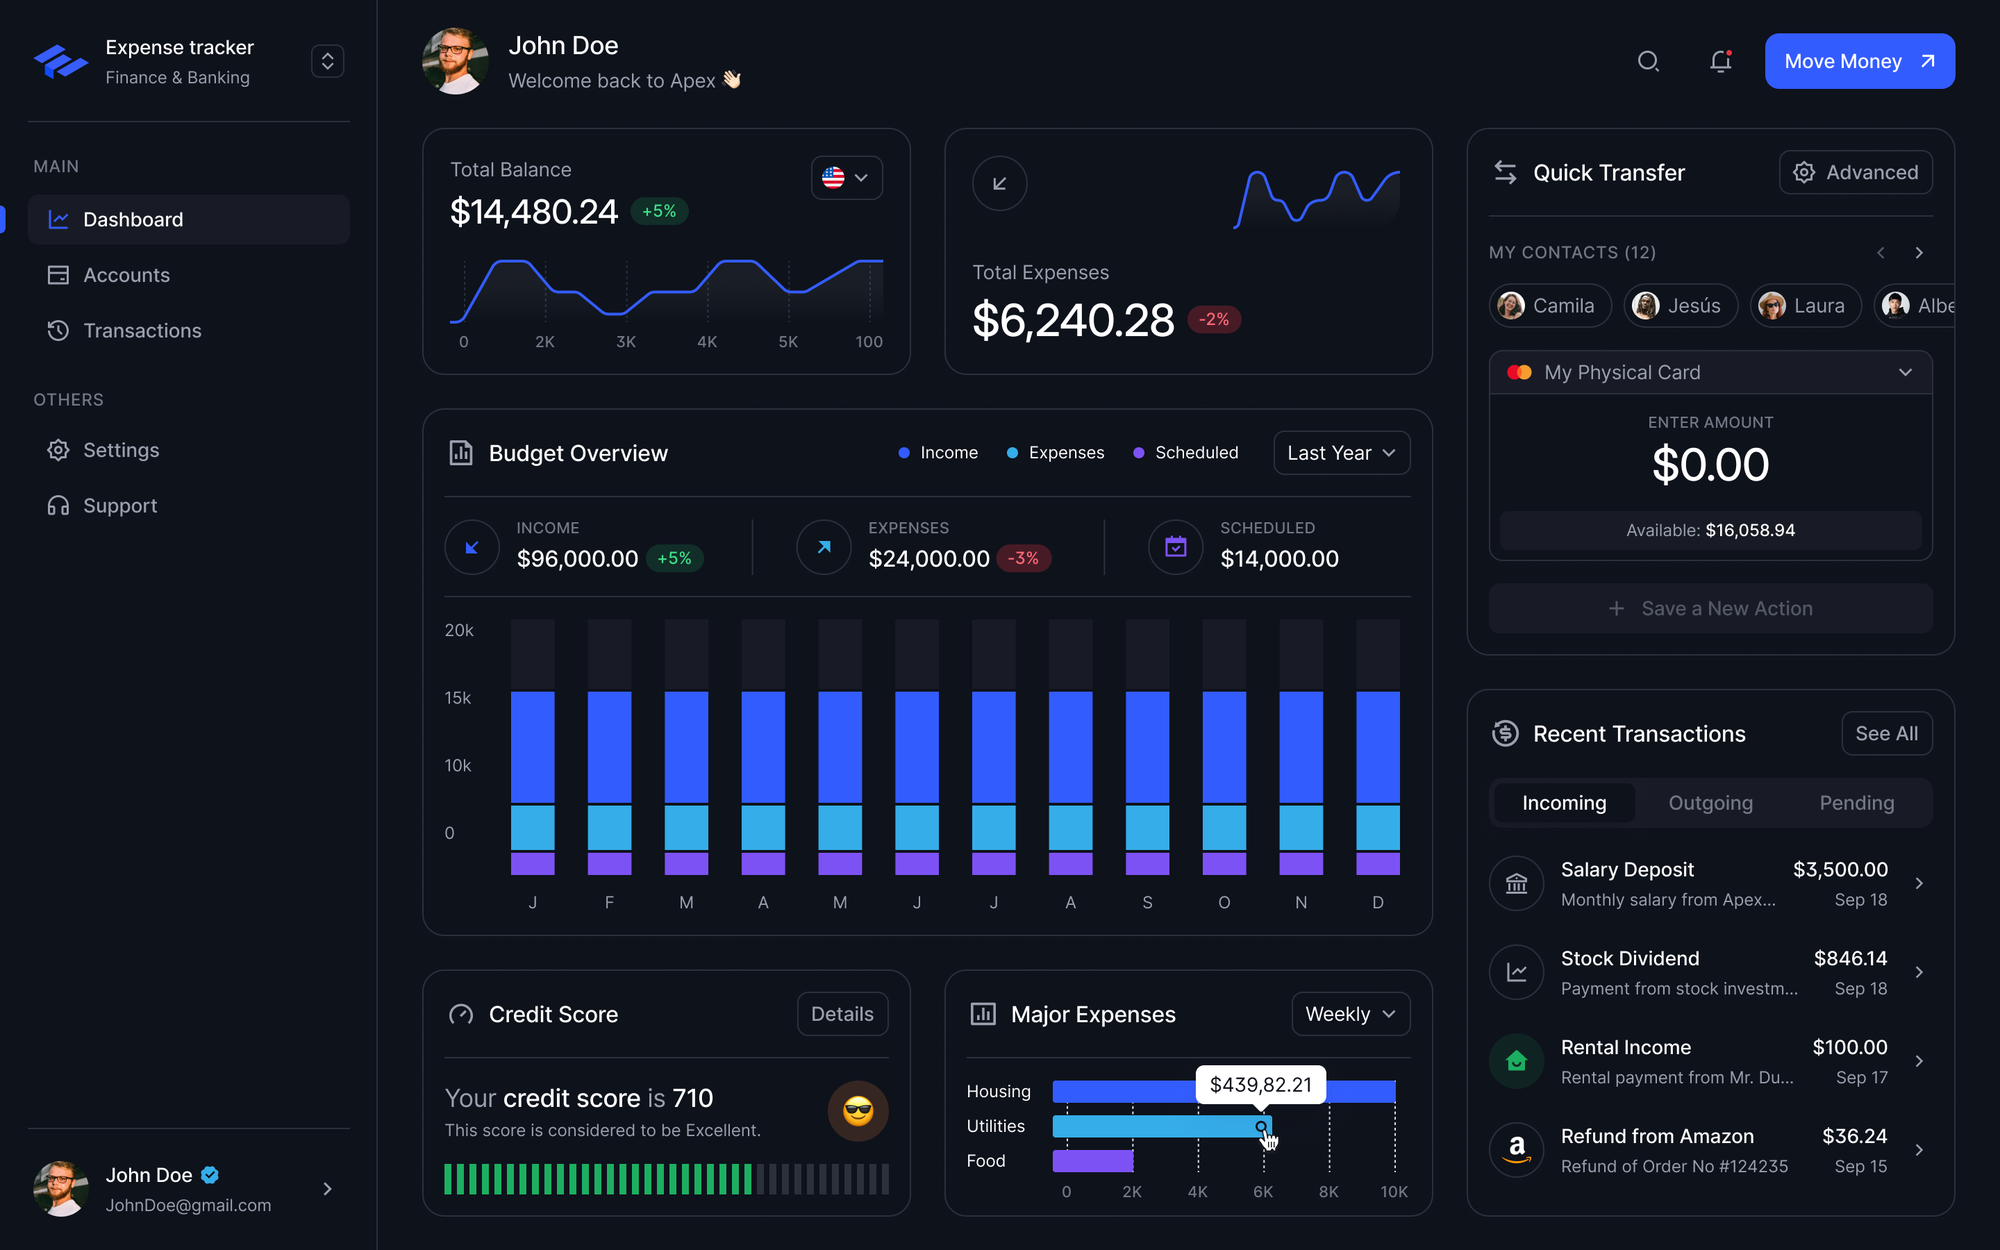
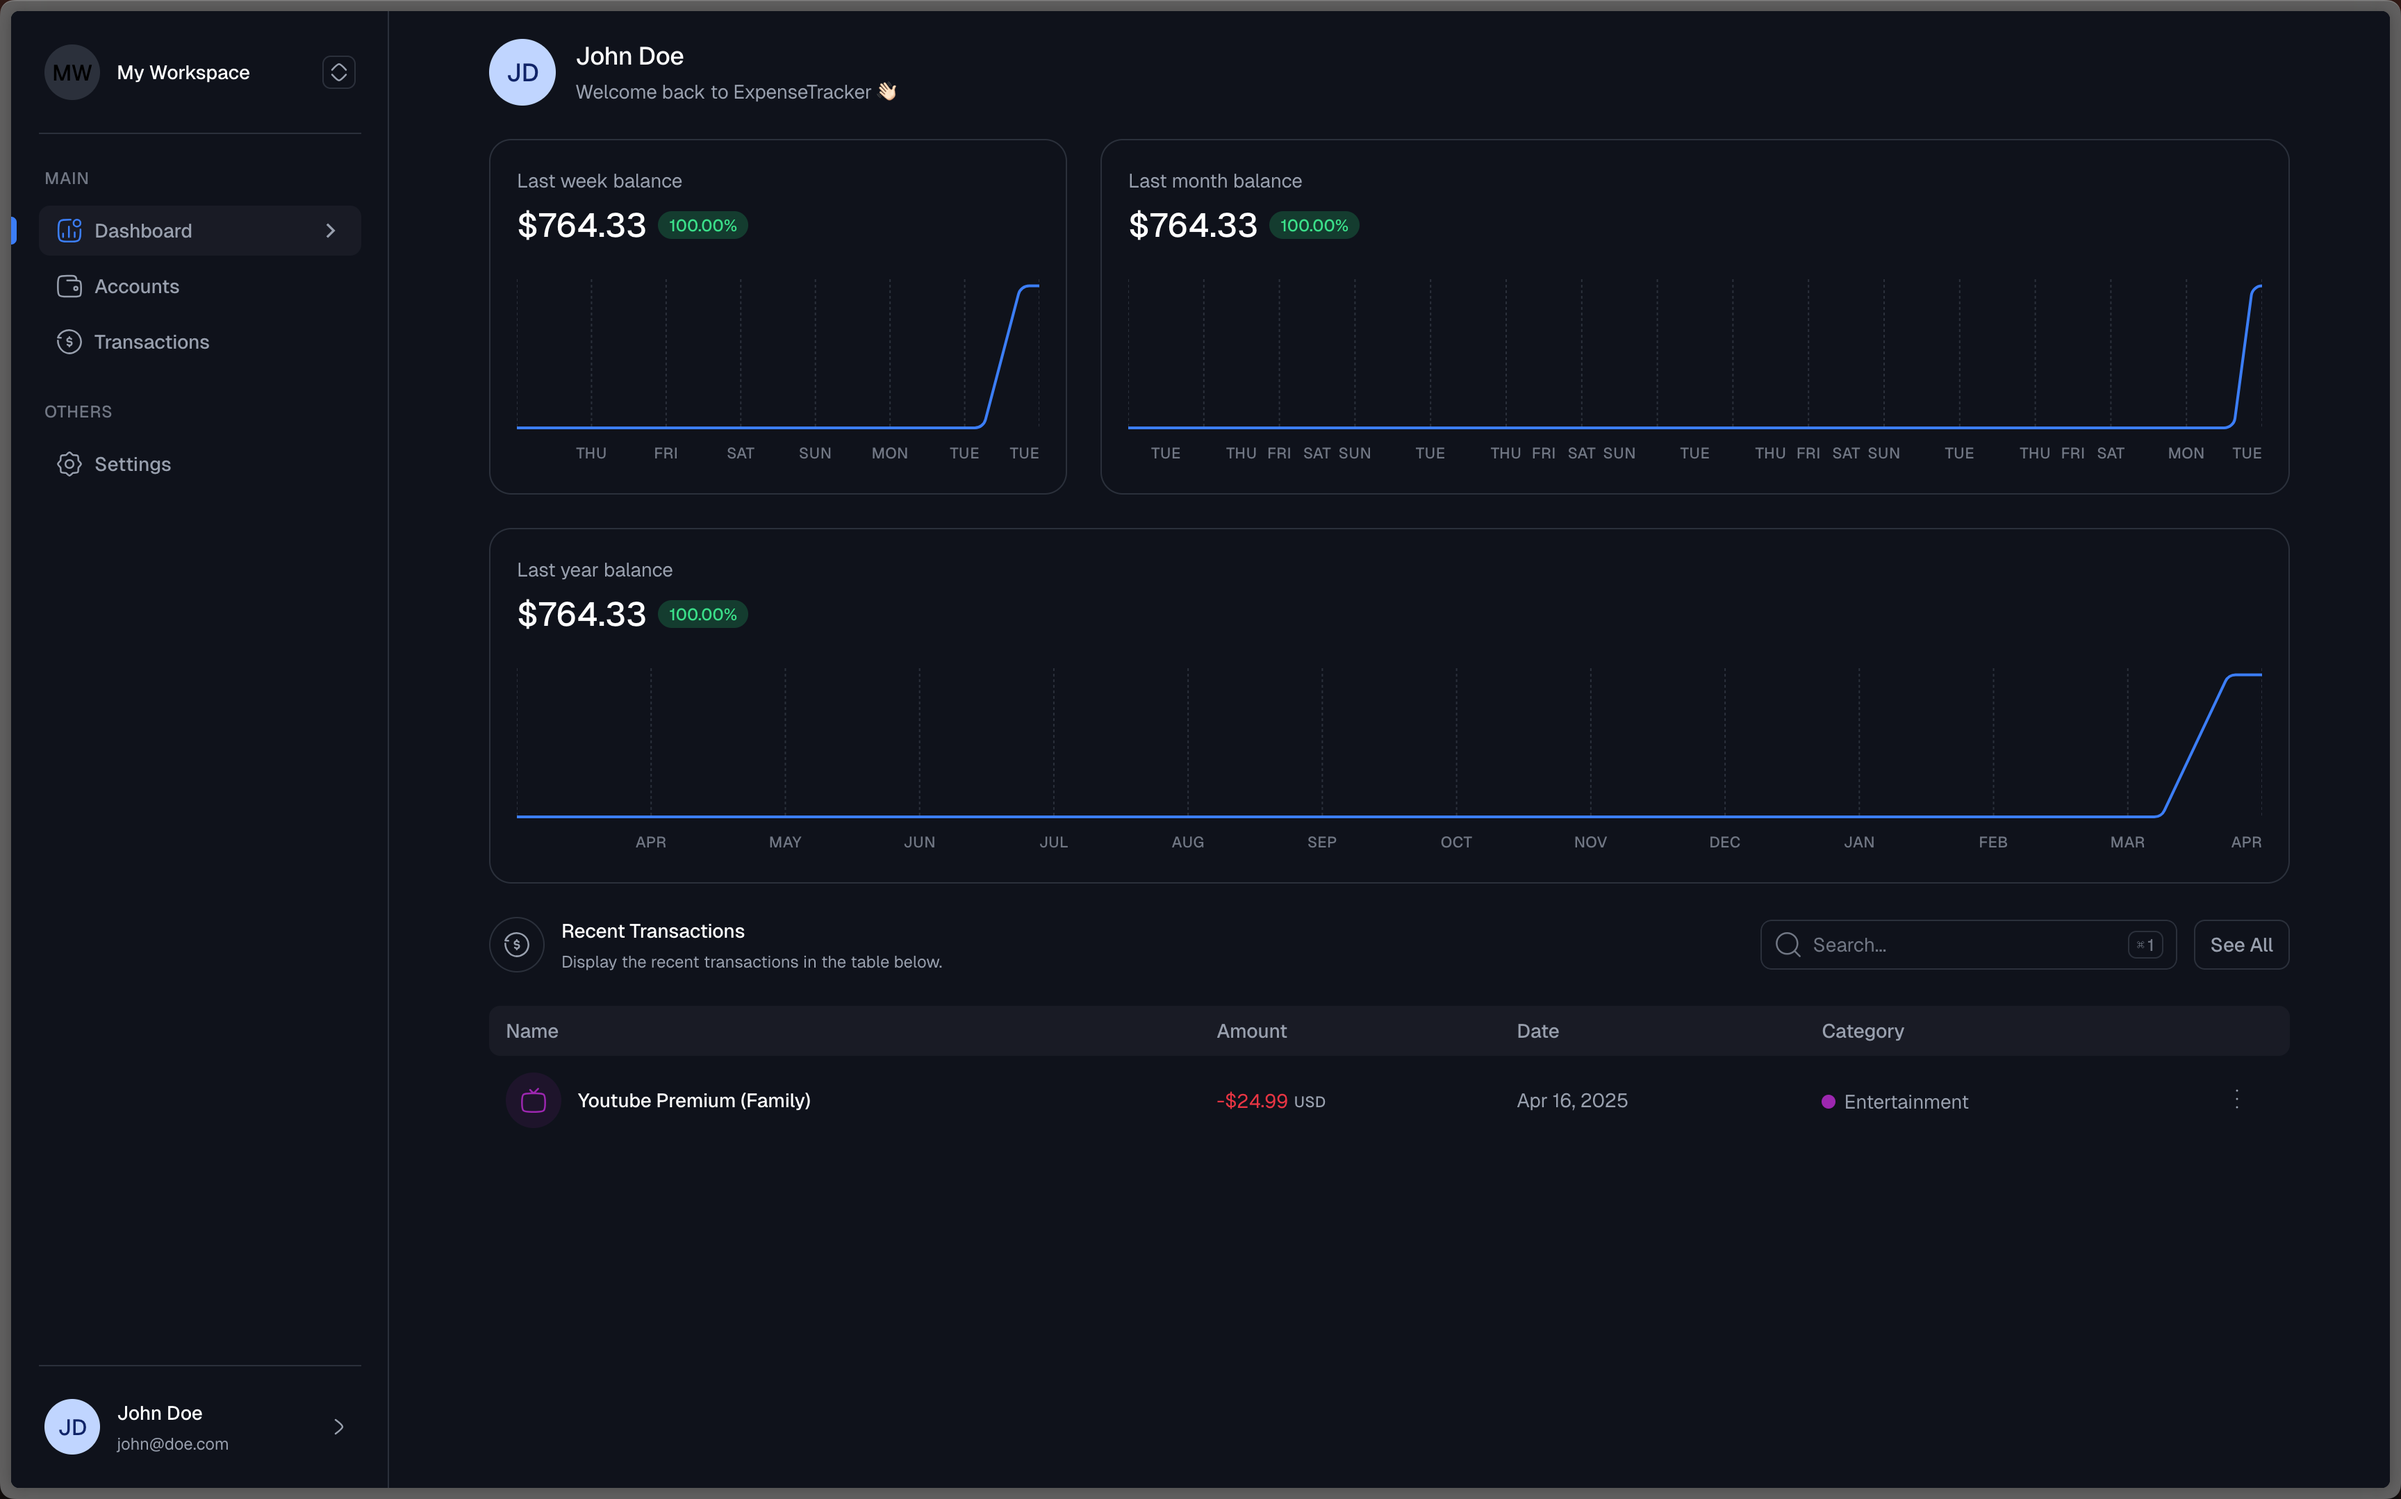
chore: update dashboard images and adjust CSS for fixed position; modify dashboard date format and add team discount section

diff --git a/resources/js/pages/welcome.tsx b/resources/js/pages/welcome.tsx
@@ -1,6 +1,5 @@
 import { getFormProps, useForm } from "@conform-to/react";
 import { getValibotConstraint, parseWithValibot } from "@conform-to/valibot";
-import GiftIcon from "virtual:icons/hugeicons/gift";
 import GithubIcon from "virtual:icons/hugeicons/github";
 import Mail01Icon from "virtual:icons/hugeicons/mail-01";
 import MoneyDollarCircleFillIcon from "virtual:icons/ri/money-dollar-circle-fill";
@@ -22,7 +21,6 @@ import { Link } from "#/components/link.tsx";
 import Logo from "#/components/logo.tsx";
 import { PricingTables } from "#/components/pricing-tables.tsx";
 import { Source } from "#/components/source.tsx";
-import * as Alert from "#/components/ui/alert.tsx";
 import * as Button from "#/components/ui/button.tsx";
 import * as LinkButton from "#/components/ui/link-button.tsx";
 import { useTranslation } from "#/hooks/use-translation.ts";
@@ -127,14 +125,6 @@ function HeroSection() {
                             <a href="#pricing">{t("home.sections.hero.get_started")}</a>
                         </Button.Root>
                     </div>
-
-                    <Alert.Root $size="sm" $status="success" $variant="stroke" className="mx-auto w-fit">
-                        <Alert.Icon as={GiftIcon} />
-                        <span>
-                            <span className="text-state-success-base">40% off</span> for the first 100 customers (23
-                            left) 🔥
-                        </span>
-                    </Alert.Root>
                 </div>
             </div>
         </section>
@@ -338,7 +328,7 @@ function FeatureSection() {
                             />
                             <Image
                                 alt=""
-                                className="rounded-16 mask-b-to-100%"
+                                className="rounded-6 mask-b-to-100%"
                                 isCdn
                                 layout="fullWidth"
                                 src="/img/dashboard.png"
@@ -363,6 +353,21 @@ function PricingSection() {
                 </div>
 
                 <PricingTables />
+
+                <div className="mx-auto flex w-full max-w-5xl flex-col items-start gap-x-8 gap-y-6 rounded-24 p-8 ring-1 ring-(--stroke-soft-200) sm:gap-y-10 sm:p-10 lg:col-span-2 lg:flex-row lg:items-center">
+                    <div className="lg:min-w-0 lg:flex-1">
+                        <h3 className="font-semibold text-brand-primary-600">Part of a team?</h3>
+                        <p className="mt-1 text-(--text-sub-600)">
+                            Send us an email and we'll give you a discount for your entire team.
+                        </p>
+                    </div>
+
+                    <Button.Root $style="stroke" asChild>
+                        <a href="mailto:teams@expensetrackr.app" rel="noopener noreferrer" target="_blank">
+                            Buy discounted licenses <span aria-hidden="true">&rarr;</span>
+                        </a>
+                    </Button.Root>
+                </div>
             </div>
         </Glow.Area>
     );

diff --git a/resources/js/utils/plans.ts b/resources/js/utils/plans.ts
@@ -17,7 +17,7 @@ export const plans = [
         isSubscription: true,
         price: {
             monthly: 14.99,
-            yearly: 9.99,
+            yearly: 12.99,
         },
         productPriceId: {
             monthly: "42d54e49-6f94-4e90-a137-e850d38ee5c7",
@@ -31,7 +31,7 @@ export const plans = [
         icon: PiggyBankIcon,
         iconBg: "bg-state-feature-base",
         price: {
-            onetime: 299.99,
+            onetime: 269.99,
         },
         productPriceId: "c969cccd-95cc-4c0c-b7a4-721a61d63e4b",
         glowColor: "var(--color-state-feature-base)",

diff --git a/resources/js/pages/dashboard.tsx b/resources/js/pages/dashboard.tsx
@@ -46,7 +46,7 @@ export default function Dashboard(props: PageProps<DashboardProps>) {
                     />
                     <TotalBalanceWidget
                         className="[grid-column:1/-1] h-64 min-[1300px]:col-span-2"
-                        formatStr="EEE"
+                        formatStr="EEEEE"
                         netWorth={props.netWorth}
                         netWorthSeries={props.series.lastMonth}
                         title="Last month balance"

diff --git a/resources/css/app.css b/resources/css/app.css
@@ -160,7 +160,7 @@ p {
 }
 
 .parity-banner {
-    position: fixed;
+    position: fixed !important;
     bottom: 0;
     z-index: 1000;
     width: 100%;
